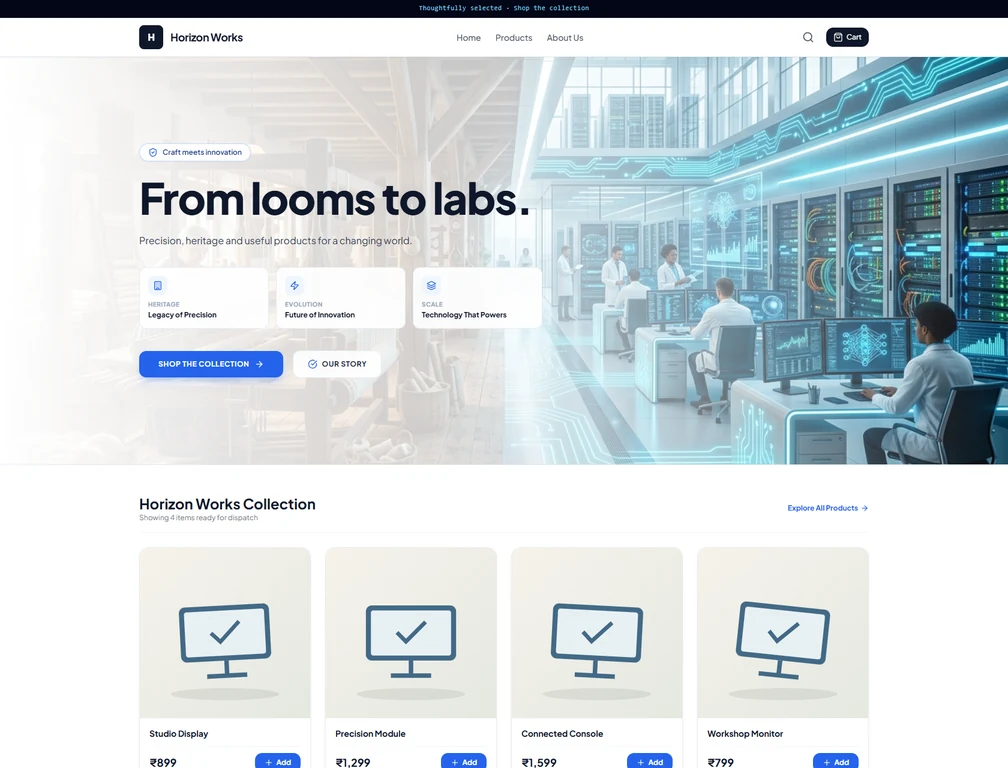
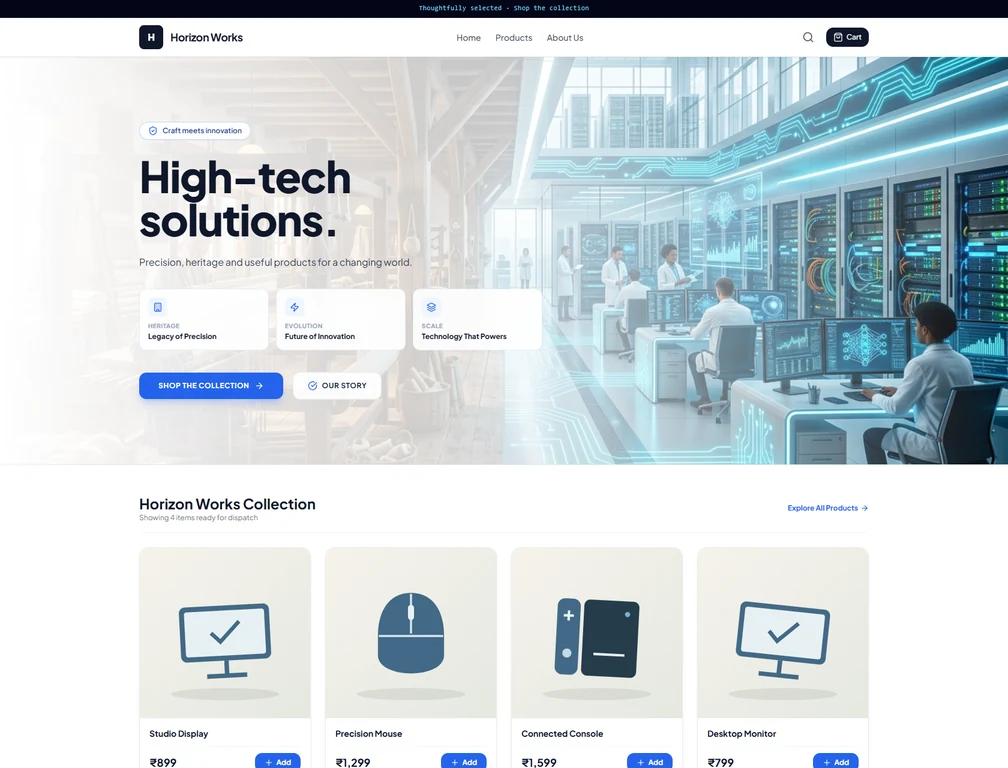
fix(landing): diversify storefront theme showcase

diff --git a/apps/storefront/src/components/landing/StorefrontThemeGallery.tsx b/apps/storefront/src/components/landing/StorefrontThemeGallery.tsx
@@ -5,12 +5,12 @@ import { useLandingI18n } from '@simply/i18n';
 import { FOUNDATIONAL_THEMES } from '@simply/ui';
 
 const THEME_IDS = [
-  'aura',
-  'harvest',
-  'feast',
-  'horizon',
   'canvas',
+  'aura',
+  'horizon',
+  'feast',
   'atelier',
+  'harvest',
 ] as const;
 
 export function StorefrontThemeGallery() {
@@ -40,6 +40,7 @@ export function StorefrontThemeGallery() {
   useEffect(() => {
     const element = rail.current;
     if (!element) return;
+    element.scrollLeft = 0;
     const observer = new ResizeObserver(updateEdges);
     observer.observe(element);
     updateEdges();
